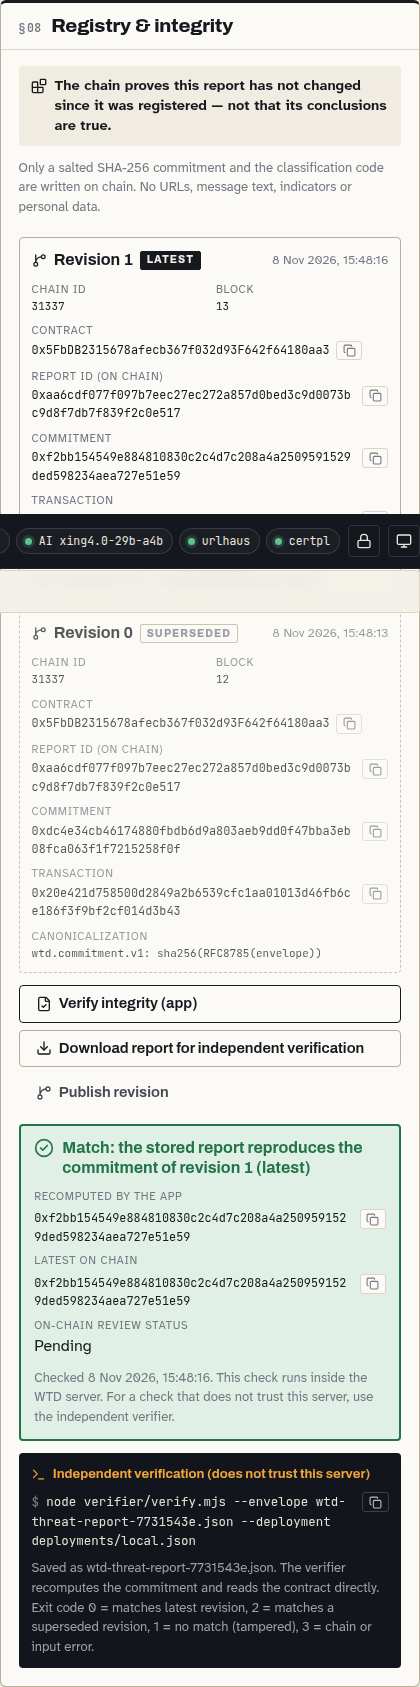
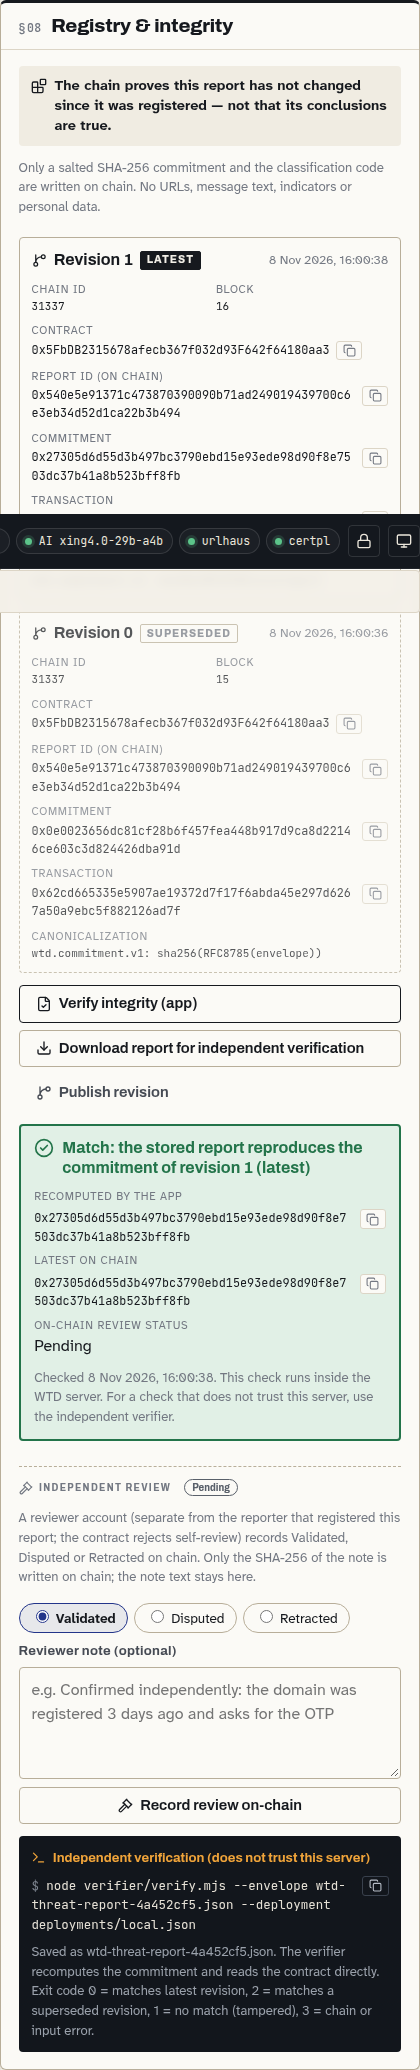
Independent on-chain review (Validated/Disputed/Retracted) from the dashboard with off-chain notes and on-chain note hashes; e2e covers it

diff --git a/frontend/src/report/RegistryPanel.tsx b/frontend/src/report/RegistryPanel.tsx
@@ -1,7 +1,7 @@
 import { useCallback, useEffect, useState } from 'react';
-import { Blocks, CircleCheck, CircleX, Download, FileCheck, GitBranch, LoaderCircle, Terminal, TriangleAlert } from 'lucide-react';
-import type { RegistryRecord, Report, ThreatReportState, VerifyResult } from '../types';
-import { downloadEnvelope, errorMessage, getThreatReport, registerThreatReport, reviseThreatReport, saveBlob, verifyIntegrity } from '../api';
+import { Blocks, CircleCheck, CircleX, Download, FileCheck, GitBranch, Gavel, LoaderCircle, Terminal, TriangleAlert } from 'lucide-react';
+import type { RegistryRecord, Report, ReviewRecord, ThreatReportState, VerifyResult } from '../types';
+import { downloadEnvelope, errorMessage, getThreatReport, registerThreatReport, reviewThreatReport, reviseThreatReport, saveBlob, verifyIntegrity } from '../api';
 import { formatDate } from '../format';
 import { CopyButton } from '../components/CopyButton';
 import { ValueView } from '../components/ValueView';
@@ -9,7 +9,7 @@ import { Notice } from '../components/Section';
 
 export const CHAIN_CAVEAT = 'The chain proves this report has not changed since it was registered — not that its conclusions are true.';
 
-type Busy = 'register' | 'revise' | 'verify' | 'download' | null;
+type Busy = 'register' | 'revise' | 'verify' | 'download' | 'review' | null;
 
 function Hex({ value }: { value: string }) {
   return (
@@ -146,6 +146,57 @@ function StatusHistory({ items }: { items: unknown[] }) {
   );
 }
 
+function ReviewBox({ current, reviews, busy, onReview }: { current: string | null | undefined; reviews: ReviewRecord[]; busy: Busy; onReview: (s: ReviewRecord['status'], note: string) => Promise<void> }) {
+  const [status, setStatus] = useState<ReviewRecord['status']>('Validated');
+  const [note, setNote] = useState('');
+  const needNote = status !== 'Validated';
+  return (
+    <div className="review-box">
+      <h3 className="mini-label">
+        <Gavel size={14} aria-hidden /> Independent review{current ? <span className={`review-current review-${current.toLowerCase()}`}>{current}</span> : null}
+      </h3>
+      <p className="fine">
+        A reviewer account (separate from the reporter that registered this report; the contract rejects self-review) records Validated, Disputed or Retracted on chain. Only the SHA-256 of the note is written on chain; the note text stays here.
+      </p>
+      {reviews.length ? (
+        <ul className="review-list">
+          {reviews.map((r) => (
+            <li key={r.tx_hash}>
+              <strong className={`review-current review-${r.status.toLowerCase()}`}>{r.status}</strong> {r.note || <span className="muted">(no note)</span>}
+              <div className="fine mono">
+                by {r.reviewer.slice(0, 10)}… · note sha256 {r.note_hash.slice(0, 14)}… · tx {r.tx_hash.slice(0, 14)}…
+              </div>
+            </li>
+          ))}
+        </ul>
+      ) : null}
+      <form
+        className="review-form"
+        onSubmit={(e) => {
+          e.preventDefault();
+          if (needNote && !note.trim()) return;
+          void onReview(status, note).then(() => setNote(''));
+        }}
+      >
+        <div className="review-choices" role="radiogroup" aria-label="Review decision">
+          {(['Validated', 'Disputed', 'Retracted'] as const).map((s) => (
+            <label key={s} className={`review-choice ${status === s ? 'is-active' : ''}`}>
+              <input type="radio" name="review-status" value={s} checked={status === s} onChange={() => setStatus(s)} /> {s}
+            </label>
+          ))}
+        </div>
+        <label className="field">
+          <span className="field-label">Reviewer note {needNote ? '(required)' : '(optional)'}</span>
+          <textarea rows={2} maxLength={500} value={note} onChange={(e) => setNote(e.target.value)} placeholder="e.g. Confirmed independently: the domain was registered 3 days ago and asks for the OTP" />
+        </label>
+        <button type="submit" className="btn btn-secondary" disabled={busy !== null || (needNote && !note.trim())}>
+          {busy === 'review' ? <LoaderCircle size={15} className="spin" aria-hidden /> : <Gavel size={15} aria-hidden />} Record review on-chain
+        </button>
+      </form>
+    </div>
+  );
+}
+
 interface Props {
   report: Report;
   onChanged: () => void;
@@ -213,6 +264,13 @@ export function RegistryPanel({ report, onChanged }: Props) {
     });
 
   const doVerify = () => run('verify', async () => setVerify(await verifyIntegrity(report.id)));
+
+  const doReview = (status: ReviewRecord['status'], note: string) =>
+    run('review', async () => {
+      await reviewThreatReport(report.id, status, note);
+      setVerify(null);
+      await load();
+    });
 
   const doDownload = () =>
     run('download', async () => {
@@ -311,6 +369,8 @@ export function RegistryPanel({ report, onChanged }: Props) {
               ) : null}
 
               {verify ? <VerifyView v={verify} /> : null}
+
+              <ReviewBox current={state?.onchain?.current_status} reviews={state?.reviews ?? []} busy={busy} onReview={doReview} />
 
               <div className="cli">
                 <div className="cli-head">

diff --git a/frontend/src/styles/global.css b/frontend/src/styles/global.css
@@ -1492,6 +1492,68 @@ textarea {
   font-size: 0.82rem;
 }
 
+/* ---------- independent review ---------- */
+.review-box {
+  border-top: 1px dashed var(--rule-strong);
+  padding-top: 0.8rem;
+  margin-top: 0.8rem;
+  display: flex;
+  flex-direction: column;
+  gap: 0.5rem;
+}
+.review-box h3 {
+  display: flex;
+  align-items: center;
+  gap: 0.4rem;
+}
+.review-current {
+  margin-left: 0.4rem;
+  font-size: 0.72rem;
+  padding: 0.05rem 0.45rem;
+  border-radius: 999px;
+  border: 1px solid currentColor;
+  text-transform: none;
+  letter-spacing: 0;
+}
+.review-validated { color: var(--good); }
+.review-disputed { color: var(--warn); }
+.review-retracted { color: var(--bad); }
+.review-pending { color: var(--neutral); }
+.review-list {
+  list-style: none;
+  padding: 0;
+  margin: 0;
+  display: grid;
+  gap: 0.4rem;
+  font-size: 0.88rem;
+}
+.review-list li .review-current { margin-left: 0; margin-right: 0.3rem; }
+.review-form {
+  display: flex;
+  flex-direction: column;
+  gap: 0.5rem;
+}
+.review-choices {
+  display: flex;
+  gap: 0.4rem;
+  flex-wrap: wrap;
+}
+.review-choice {
+  border: 1px solid var(--rule-strong);
+  border-radius: 999px;
+  padding: 0.2rem 0.7rem;
+  font-size: 0.85rem;
+  cursor: pointer;
+}
+.review-choice.is-active {
+  border-color: var(--accent);
+  background: var(--accent-soft);
+  font-weight: 700;
+}
+.review-choice input {
+  accent-color: var(--accent);
+}
+
 /* ---------- responsive ---------- */
 @media (max-width: 900px) {
   .topbar-inner {

diff --git a/frontend/src/api.ts b/frontend/src/api.ts
@@ -10,6 +10,7 @@ import type {
   Health,
   Incident,
   CampaignBrief,
+  ReviewRecord,
   RegistrationResult,
   Report,
   ThreatReportState,
@@ -232,6 +233,11 @@ export function registerThreatReport(id: string, submitter?: string): Promise<Re
 export function reviseThreatReport(id: string, reason: string): Promise<RegistrationResult> {
   if (MOCK_MODE) return mock.reviseThreatReport(id, reason);
   return json<RegistrationResult>(`/api/analyses/${enc(id)}/threat-report/revise`, { method: 'POST', body: { reason } });
+}
+
+export function reviewThreatReport(id: string, status: 'Validated' | 'Disputed' | 'Retracted', note: string): Promise<ReviewRecord> {
+  if (MOCK_MODE) return Promise.reject(new ApiError(0, 'Not available in mock mode', 'network'));
+  return json<ReviewRecord>(`/api/analyses/${enc(id)}/threat-report/review`, { method: 'POST', body: { status, note } });
 }
 
 /** Returns null when the report has not been registered (404). */

diff --git a/frontend/src/types.ts b/frontend/src/types.ts
@@ -194,7 +194,17 @@ export interface ThreatReportState {
   envelope: { [k: string]: unknown };
   commitment: string;
   records: RegistryRecord[];
-  onchain?: { revisions?: unknown[]; status_history?: unknown[]; error?: string } | null;
+  onchain?: { revisions?: unknown[]; status_history?: unknown[]; current_status?: string | null; error?: string } | null;
+  reviews?: ReviewRecord[];
+}
+
+export interface ReviewRecord {
+  tx_hash: string;
+  status: 'Validated' | 'Disputed' | 'Retracted';
+  note: string;
+  note_hash: string;
+  reviewer: string;
+  created_at?: string;
 }
 
 export interface VerifyResult {

diff --git a/backend/wtd/registry/service.py b/backend/wtd/registry/service.py
@@ -1,6 +1,8 @@
 """Threat-report registration and app-side verification (the independent check is verifier/verify.mjs)."""
 from __future__ import annotations
 
+import hashlib
+
 from fastapi import HTTPException
 
 from ..models import RegistryRecord, iso
@@ -104,7 +106,33 @@ def get(rid: str) -> dict:
         onchain = chain.read(report_id_bytes32(rid))
     except chain.ChainUnavailable as e:
         onchain = {"error": str(e)}
-    return {"envelope": trs[-1]["envelope"], "commitment": trs[-1]["commitment"], "records": [t["record"] for t in trs], "onchain": onchain}
+    return {"envelope": trs[-1]["envelope"], "commitment": trs[-1]["commitment"], "records": [t["record"] for t in trs], "onchain": onchain,
+            "reviews": STORE.reviews(rid)}
+
+
+REVIEW_STATUSES = ("Validated", "Disputed", "Retracted")
+
+
+def review(rid: str, status: str, note: str) -> dict:
+    """Record a reviewer decision on-chain (status + SHA-256 of the note); the note text stays off-chain."""
+    if status not in REVIEW_STATUSES:
+        raise HTTPException(422, f"status must be one of {', '.join(REVIEW_STATUSES)}")
+    note = note.strip()
+    if status != "Validated" and not note:
+        raise HTTPException(422, "a note explaining the dispute or retraction is required")
+    if not STORE.threat_reports(rid):
+        raise HTTPException(409, "not registered yet")
+    note_hash = "0x" + hashlib.sha256(note.encode("utf-8")).hexdigest()
+    try:
+        res = chain.set_status(report_id_bytes32(rid), status, note_hash)
+    except chain.ChainUnavailable as e:
+        raise HTTPException(503, f"blockchain unavailable: {e}")
+    except Exception as e:  # revert, e.g. self-review or missing reviewer role
+        raise HTTPException(409, f"review rejected by the contract: {str(e)[:160]}")
+    rec = {"tx_hash": res["tx_hash"], "status": status, "note": note, "note_hash": note_hash, "reviewer": res["from"],
+           "block_number": res["block_number"], "chain_id": res["chain_id"]}
+    STORE.save_review(rid, rec)
+    return rec
 
 
 def verify(rid: str) -> dict:

diff --git a/backend/wtd/registry/chain.py b/backend/wtd/registry/chain.py
@@ -6,6 +6,7 @@ connected chain id is 31337. Any other chain requires WTD_REPORTER_KEY and refus
 from __future__ import annotations
 
 import json
+import os
 from functools import lru_cache
 
 from web3 import Web3
@@ -58,8 +59,10 @@ def _contract(w3: Web3):
 def _signer_key(w3: Web3, role: str = "reporter") -> str:
     if role == "reporter" and SETTINGS.reporter_key:
         return SETTINGS.reporter_key
+    if role == "reviewer" and os.environ.get("WTD_REVIEWER_KEY"):
+        return os.environ["WTD_REVIEWER_KEY"]
     if w3.eth.chain_id != 31337:
-        raise ChainUnavailable("WTD_REPORTER_KEY must be set for non-local chains")
+        raise ChainUnavailable(f"WTD_{role.upper()}_KEY must be set for non-local chains")
     return ANVIL_REPORTER_KEY if role == "reporter" else ANVIL_REVIEWER_KEY
 
 
@@ -95,6 +98,15 @@ def revise(report_id_b32: str, expected_revision: int, commitment: str, cls_code
     c, dep = _contract(w3)
     res = _send(w3, c.functions.revise(bytes.fromhex(report_id_b32[2:]), expected_revision, bytes.fromhex(commitment[2:]), cls_code), _signer_key(w3))
     return {**res, "chain_id": w3.eth.chain_id, "contract": c.address, "revision": expected_revision, "registered_at": iso()}
+
+
+def set_status(report_id_b32: str, status_name: str, note_hash: str) -> dict:
+    """Reviewer decision. Signed by the reviewer account (a different key from the reporter; the contract rejects self-review)."""
+    w3 = _w3()
+    c, dep = _contract(w3)
+    res = _send(w3, c.functions.setStatus(bytes.fromhex(report_id_b32[2:]), STATUS.index(status_name), bytes.fromhex(note_hash[2:])),
+                _signer_key(w3, "reviewer"))
+    return {**res, "chain_id": w3.eth.chain_id, "contract": c.address, "status": status_name, "reviewed_at": iso()}
 
 
 def read(report_id_b32: str) -> dict:

diff --git a/backend/wtd/store.py b/backend/wtd/store.py
@@ -24,6 +24,10 @@ CREATE TABLE IF NOT EXISTS threat_reports (
   report_id TEXT NOT NULL, revision INTEGER NOT NULL, envelope_json TEXT NOT NULL, commitment TEXT NOT NULL,
   record_json TEXT, created_at TEXT NOT NULL, PRIMARY KEY (report_id, revision)
 );
+CREATE TABLE IF NOT EXISTS reviews (
+  report_id TEXT NOT NULL, tx_hash TEXT NOT NULL, status TEXT NOT NULL, note TEXT NOT NULL, note_hash TEXT NOT NULL,
+  reviewer TEXT NOT NULL, created_at TEXT NOT NULL, PRIMARY KEY (report_id, tx_hash)
+);
 CREATE TABLE IF NOT EXISTS campaign_briefs (cluster_id TEXT PRIMARY KEY, brief_json TEXT NOT NULL, created_at TEXT NOT NULL);
 """
 
@@ -116,3 +120,13 @@ class Store:
     def get_brief(self, cluster_id: str) -> dict | None:
         row = self.conn.execute("SELECT brief_json FROM campaign_briefs WHERE cluster_id=?", (cluster_id,)).fetchone()
         return json.loads(row[0]) if row else None
+
+    # --- reviewer decisions: the note text stays off-chain; only its SHA-256 is on-chain
+    def save_review(self, rid: str, rec: dict) -> None:
+        with self.lock:
+            self.conn.execute("INSERT OR REPLACE INTO reviews(report_id, tx_hash, status, note, note_hash, reviewer, created_at) VALUES (?,?,?,?,?,?,?)",
+                              (rid, rec["tx_hash"], rec["status"], rec["note"], rec["note_hash"], rec["reviewer"], iso()))
+
+    def reviews(self, rid: str) -> list[dict]:
+        rows = self.conn.execute("SELECT tx_hash, status, note, note_hash, reviewer, created_at FROM reviews WHERE report_id=? ORDER BY created_at", (rid,)).fetchall()
+        return [dict(zip(("tx_hash", "status", "note", "note_hash", "reviewer", "created_at"), r)) for r in rows]

diff --git a/backend/tests/test_ai_api_store.py b/backend/tests/test_ai_api_store.py
@@ -191,3 +191,11 @@ def test_campaign_brief_rejects_attribution_and_unsupported_confirmed():
     assert campaign._validate(_cluster(), _EVID, _brief(summary="This is attributed to APT 41."))["status"] == "rejected"
     assert campaign._validate(_cluster(), _EVID, _brief(summary="All reports are Confirmed Malicious."))["status"] == "rejected"
     assert campaign._validate(_cluster(), _EVID, "nope")["status"] == "failed"
+
+
+def test_review_validation(client):
+    h = {"X-WTD-Token": "test-token"}
+    assert client.post("/api/analyses/x/threat-report/review", json={"status": "Pending"}, headers=h).status_code == 422
+    assert client.post("/api/analyses/x/threat-report/review", json={"status": "Disputed", "note": ""}, headers=h).status_code == 422
+    assert client.post("/api/analyses/nope/threat-report/review", json={"status": "Validated"}, headers=h).status_code == 409
+    assert client.post("/api/analyses/x/threat-report/review", json={"status": "Validated"}).status_code == 401

diff --git a/backend/wtd/api.py b/backend/wtd/api.py
@@ -120,6 +120,19 @@ def revise(rid: str, body: ReviseRequest) -> dict:
     return service.revise(rid, body.reason)
 
 
+class ReviewRequest(BaseModel):
+    status: str = Field(pattern="^(Validated|Disputed|Retracted)$")
+    note: str = Field(default="", max_length=500)
+
+
+@app.post("/api/analyses/{rid}/threat-report/review", dependencies=[Depends(require_token)])
+def review(rid: str, body: ReviewRequest) -> dict:
+    """Independent reviewer decision, signed by the reviewer account (contract forbids reviewing your own report)."""
+    from .registry import service
+
+    return service.review(rid, body.status, body.note)
+
+
 @app.get("/api/analyses/{rid}/threat-report", dependencies=[Depends(require_token)])
 def get_threat_report(rid: str) -> dict:
     from .registry import service
